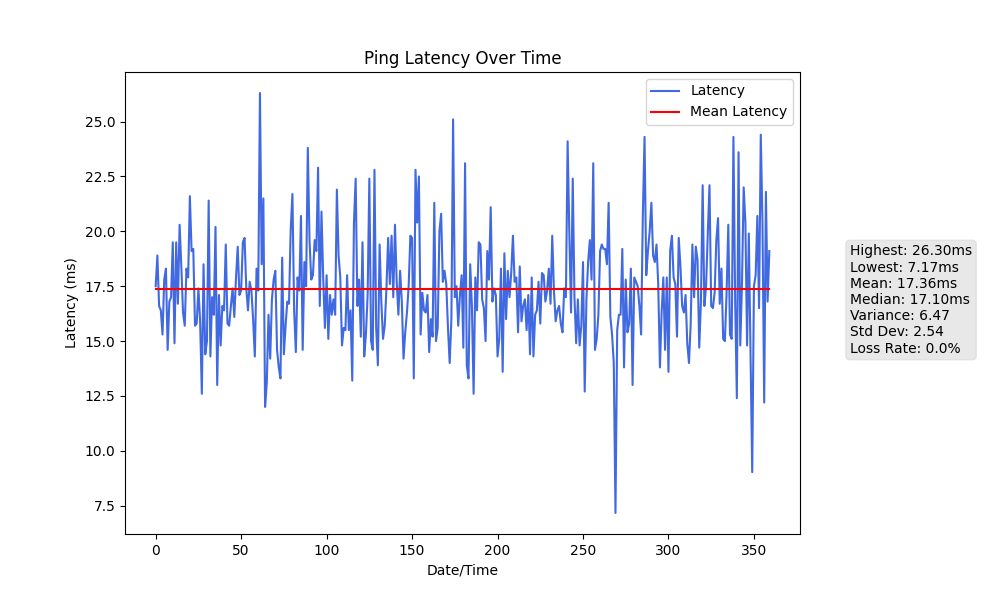
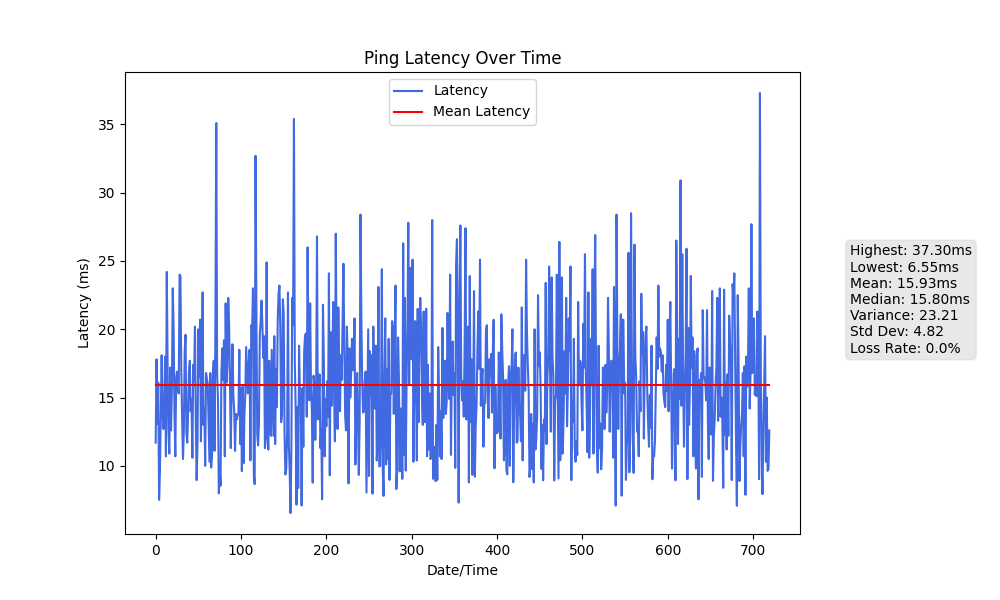
#

diff --git a/main.py b/main.py
@@ -5,8 +5,8 @@ import numpy as np
 import os
 from datetime import datetime, timedelta
 
-pass_few_hours = 6
-log = 0
+pass_few_hours = 12
+log = False
 
 # Change the path to your directory
 directory_path = '/home/lez/ping_result'
@@ -39,7 +39,7 @@ for filename in sorted_files:
             graph_date.append(n)
             if latency == 'NULL':
                 loss += 1
-                graph_latency.append('')
+                graph_latency.append(log)
             else:
                 latency = float(latency)
                 sum += latency
